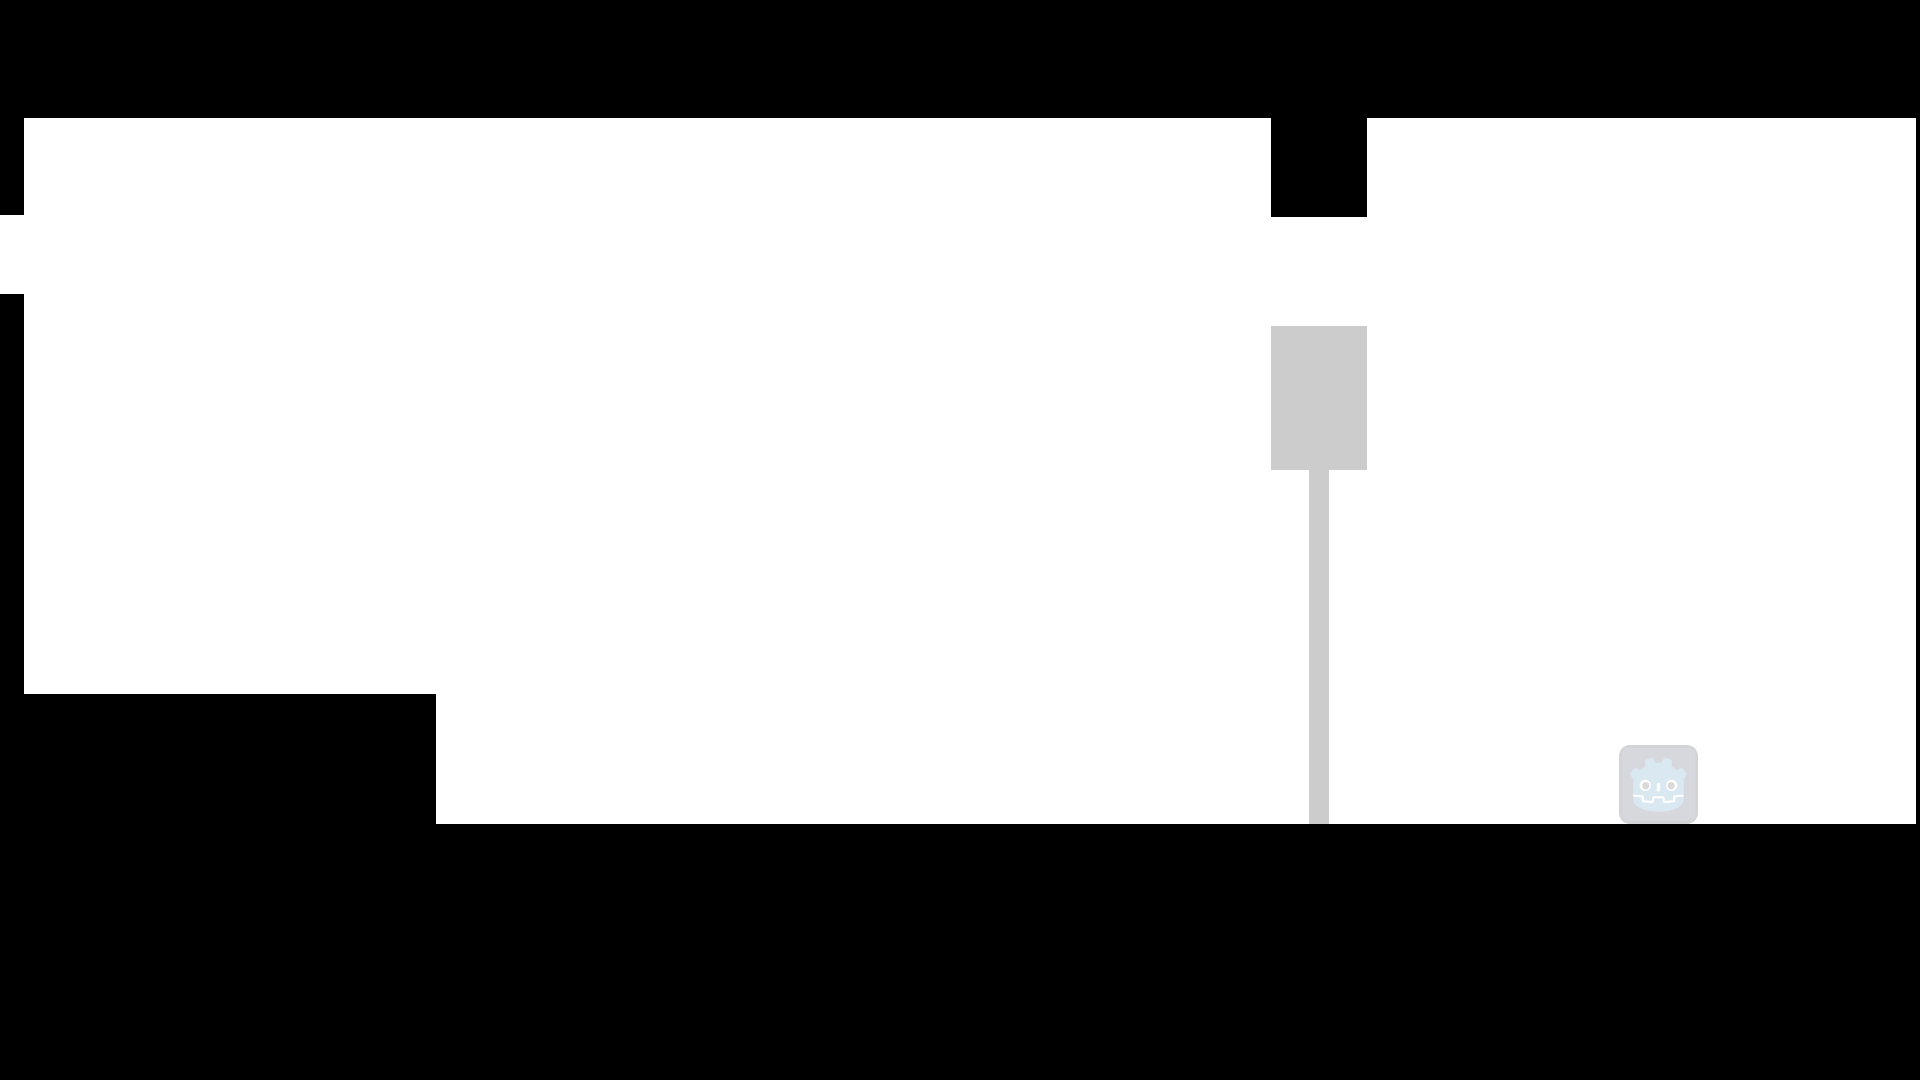
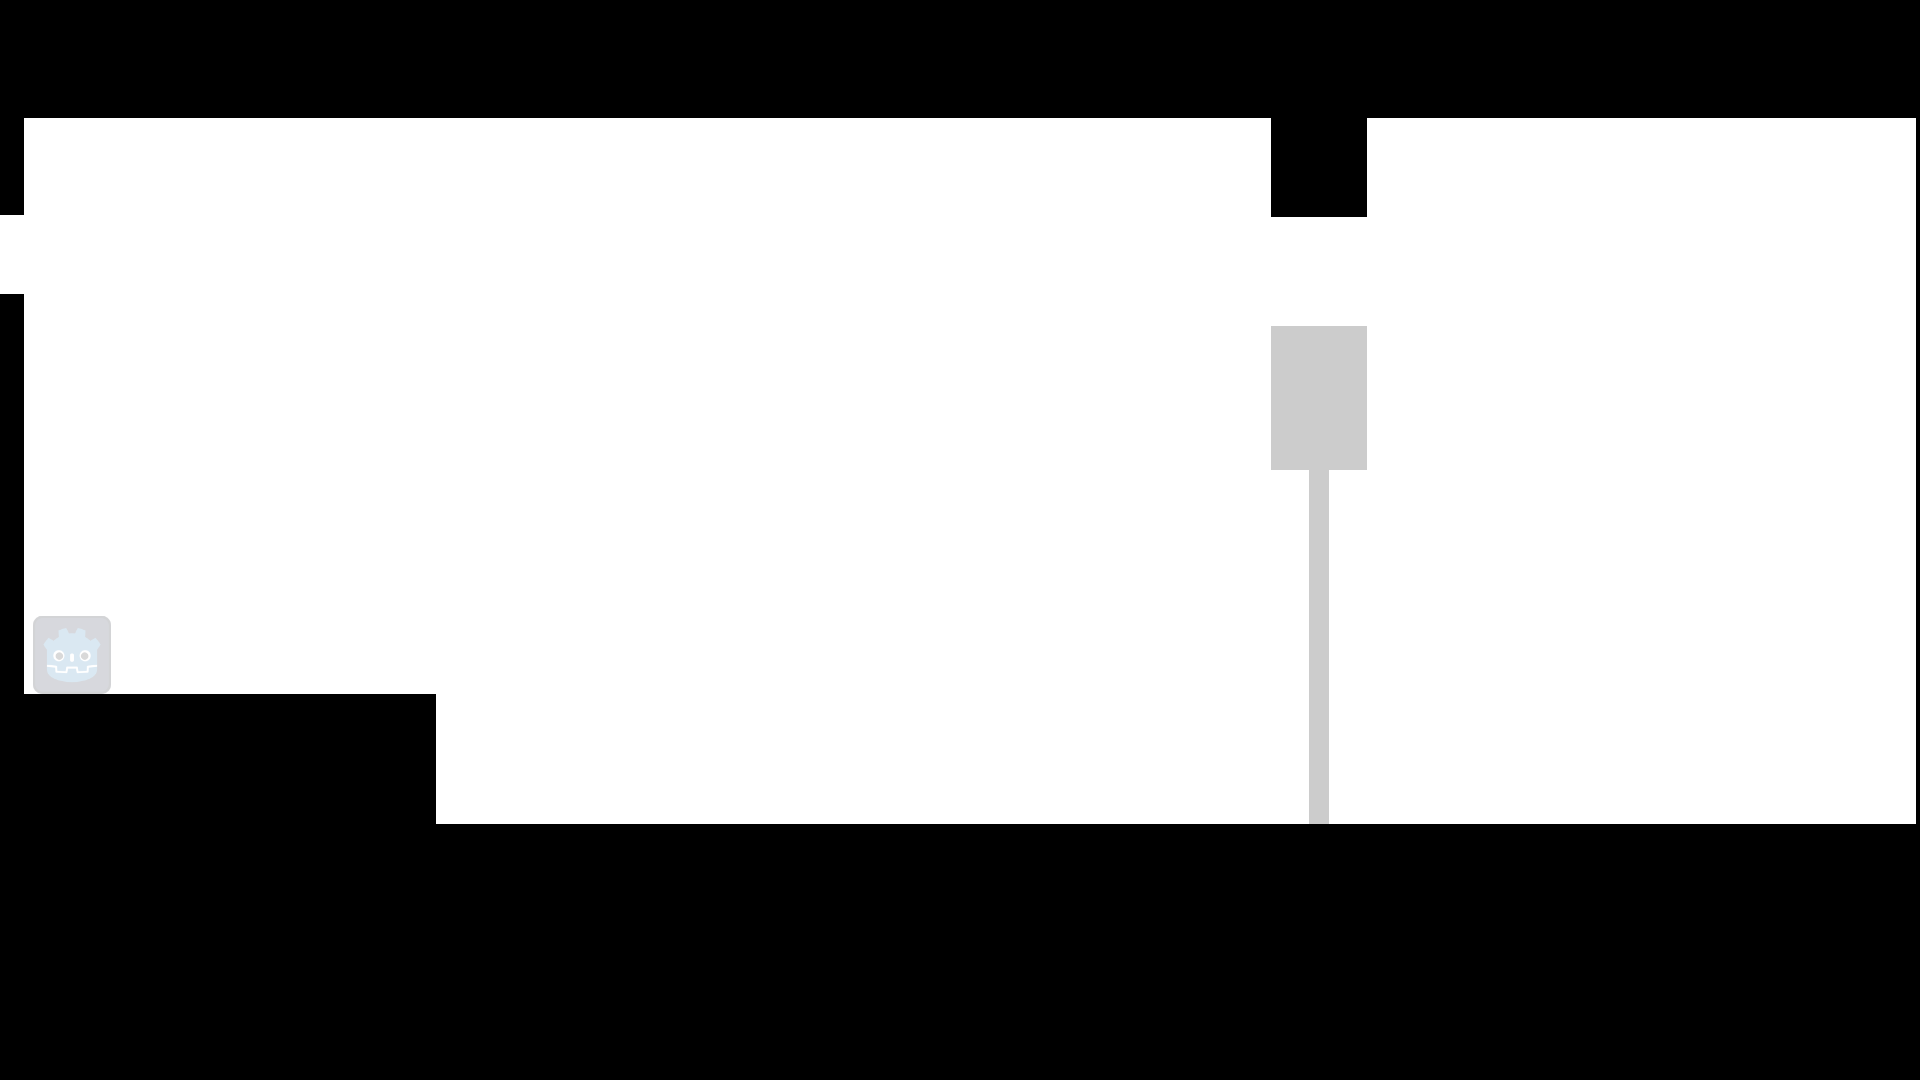
TCP v0 and relative paths

Changed region(s): [[0.8438, 0.6722, 0.9062, 0.7639], [0.0, 0.55, 0.0625, 0.6417]]

diff --git a/External Software/ShadowSocket.py b/External Software/ShadowSocket.py
@@ -1,0 +1,220 @@
+import cv2
+import numpy as np
+import threading
+import socket
+import json
+import os
+
+vertices = []
+request_pending = False
+
+# Threaded socket server to handle requests from Godot
+def socket_server():
+    global request_pending
+    with socket.socket(socket.AF_INET, socket.SOCK_STREAM) as s:
+        s.bind(('localhost', 65432))
+        s.listen()
+        connection, address = s.accept()
+        with connection:
+            while True:
+                data = connection.recv(1024).decode('utf-8')
+                if not data:
+                    break
+                if data == "GET_ARRAY":
+                    request_pending = True
+                    while request_pending: 
+                        pass
+
+                    packet = json.dumps(vertices)
+                    connection.sendall(packet.encode('utf-8'))
+
+
+cap = cv2.VideoCapture(1)
+cap.set(cv2.CAP_PROP_FRAME_WIDTH, 1920)
+cap.set(cv2.CAP_PROP_FRAME_HEIGHT, 1080)
+
+squaresX = 16
+squaresY = 9
+squareLength = 0.02
+markerLength = 0.015  
+
+all_object_points = []
+all_image_points = []
+
+WARP_W = 1920
+WARP_H = 1080
+
+bestInliers = 0
+bestH = None
+warpFound = False
+
+bg = None
+BG_ALPHA = 0.01
+
+MIN_AREA = 1500
+MIN_EXTENT = 0.30
+
+kernel_open = cv2.getStructuringElement(cv2.MORPH_ELLIPSE, (3, 3))
+kernel_close = cv2.getStructuringElement(cv2.MORPH_RECT, (11, 7))
+
+dictionary = cv2.aruco.getPredefinedDictionary(cv2.aruco.DICT_6X6_250)
+board = cv2.aruco.CharucoBoard((squaresX, squaresY), squareLength, markerLength, dictionary)
+detector_parameters = cv2.aruco.DetectorParameters()
+charuco_parameters = cv2.aruco.CharucoParameters()
+charuco_parameters.tryRefineMarkers = True
+charuco_detector = cv2.aruco.CharucoDetector(board, charuco_parameters, detector_parameters)
+
+imageSize = None
+
+while True:
+    ok, frame = cap.read()
+    if not ok:
+        break
+
+    gray = cv2.cvtColor(frame, cv2.COLOR_BGR2GRAY)
+    charucoCorners, charucoIds, markerCorners, markerIds = charuco_detector.detectBoard(gray)
+
+    if imageSize is None:
+        imageSize = (frame.shape[1], frame.shape[0])
+        board_image = board.generateImage(imageSize)
+        if board_image is not None:
+            cv2.namedWindow("Charuco Board", cv2.WINDOW_NORMAL)
+            cv2.setWindowProperty("Charuco Board", cv2.WND_PROP_FULLSCREEN, cv2.WINDOW_FULLSCREEN)
+            cv2.imshow("Charuco Board", board_image)
+
+    debug = gray.copy()
+    if markerIds is not None:
+        cv2.aruco.drawDetectedMarkers(debug, markerCorners, markerIds)
+    if charucoIds is not None:
+        cv2.aruco.drawDetectedCornersCharuco(debug, charucoCorners, charucoIds)
+
+    cv2.imshow("Calibration (SPACE to capture, ESC to finish)", debug)
+
+    key = cv2.waitKey(1) & 0xFF
+    if key == ord(' ') and charucoIds is not None and len(charucoIds) >= 12:
+        objPts, imgPts = board.matchImagePoints(charucoCorners, charucoIds)
+        all_object_points.append(objPts.astype(np.float32))
+        all_image_points.append(imgPts.astype(np.float32))
+
+    if key == 27:
+        break
+
+cv2.destroyAllWindows()
+
+ret, camMatrix, distCoeffs, rvecs, tvecs = cv2.calibrateCamera(
+    all_object_points, all_image_points, imageSize, None, None
+)
+
+threading.Thread(target=socket_server, daemon=True).start()
+
+script_dir = os.path.dirname(os.path.abspath(__file__))
+print(script_dir)
+image_path = os.path.join(script_dir, "Test Images", "GodotFrame.png")
+
+while True:
+    ok, frame = cap.read()
+    if not ok:
+        break
+
+    gray = cv2.cvtColor(frame, cv2.COLOR_BGR2GRAY)
+    charucoCorners, charucoIds, markerCorners, markerIds = charuco_detector.detectBoard(gray)
+
+    if charucoIds is not None and len(charucoIds) >= 12:
+        objPts, imgPts = board.matchImagePoints(charucoCorners, charucoIds)
+
+        obj2d = objPts[:, 0, :2]
+        img2d = imgPts[:, 0, :]
+
+        newcameramtx, _ = cv2.getOptimalNewCameraMatrix(
+            camMatrix, distCoeffs, imageSize, 1, imageSize
+        )
+
+        img2d_undist = cv2.undistortPoints(
+            img2d.reshape(-1, 1, 2), camMatrix, distCoeffs, P=newcameramtx
+        ).reshape(-1, 2)
+
+        boardW = squaresX * squareLength
+        boardH = squaresY * squareLength
+
+        px = WARP_W / boardW
+        py = WARP_H / boardH
+
+        src = img2d_undist.astype(np.float32)
+        dst = np.column_stack((obj2d[:, 0] * px, obj2d[:, 1] * py)).astype(np.float32)
+
+        H, inliers = cv2.findHomography(src, dst, cv2.RANSAC, 3.0)
+        if H is not None and inliers.sum() > bestInliers:
+            bestInliers = inliers.sum()
+            bestH = H
+            warpFound = True
+
+    if not warpFound:
+        cv2.imshow("Raw Camera", frame)
+        if cv2.waitKey(1) & 0xFF == 27:
+            break
+        continue
+
+    undist = cv2.undistort(frame, camMatrix, distCoeffs, None, newcameramtx)
+    warped = cv2.warpPerspective(undist, bestH, (WARP_W, WARP_H))
+
+    gray_w = cv2.cvtColor(warped, cv2.COLOR_BGR2GRAY)
+    gray_w = cv2.GaussianBlur(gray_w, (5, 5), 0)
+    gray_w = cv2.medianBlur(gray_w, 5)
+
+    gray_w = cv2.threshold(gray_w, 0, 255, cv2.THRESH_BINARY + cv2.THRESH_OTSU)[1]
+
+    # File path for background model
+    # TODO: Change this path to local path from absolute path
+    bg = cv2.cvtColor(cv2.imread(image_path), cv2.COLOR_BGR2GRAY).astype(np.float32)
+
+    bg_u8 = cv2.convertScaleAbs(bg)
+
+    diff = cv2.absdiff(gray_w, bg_u8)
+
+    mean = np.mean(diff)
+    std = np.std(diff)
+    thresh_val = int(np.clip(mean + 0.8 * std, 12, 60))
+
+    _, mask = cv2.threshold(diff, 200, 255, cv2.THRESH_BINARY)
+
+    mask = cv2.morphologyEx(mask, cv2.MORPH_OPEN, kernel_open)
+    mask = cv2.morphologyEx(mask, cv2.MORPH_CLOSE, kernel_close)
+    mask = cv2.morphologyEx(mask, cv2.MORPH_OPEN, kernel_open)
+
+    cv2.imshow("Shadow Mask Pre-Contour", mask)
+
+    contours, _ = cv2.findContours(mask, cv2.RETR_EXTERNAL, cv2.CHAIN_APPROX_SIMPLE)
+
+    best_cnt = None
+    best_score = 0
+
+    for cnt in contours:
+        area = cv2.contourArea(cnt)
+        if area < MIN_AREA:
+            continue
+
+        x, y, w, h = cv2.boundingRect(cnt)
+        extent = area / float(w * h + 1e-5)
+        score = area * extent
+
+        if score > best_score:
+            best_score = score
+            best_cnt = cnt
+
+    
+    if best_cnt is not None:
+        approx = cv2.approxPolyDP(best_cnt, 4, True)
+        if request_pending:
+            request_pending = False
+
+    if best_cnt is not None:
+        x, y, w, h = cv2.boundingRect(best_cnt)
+        cx = int(x + w / 2)
+        cy = int(y + h / 2)
+        cv2.circle(warped, (cx, cy), 10, (0, 255, 0), -1)
+
+    if cv2.waitKey(1) & 0xFF == 27:
+        break
+
+cap.release()
+cv2.destroyAllWindows()

diff --git a/External Software/test.py b/External Software/test.py
@@ -1,9 +1,21 @@
 import socket
 import struct
+import os
 import cv2
 import numpy as np
 
-HOST = '127.0.0.1'
+script_dir = os.path.dirname(os.path.abspath(__file__))
+print(script_dir)
+image_path = os.path.join(script_dir, "Test Images", "GodotFrame.png")
+image = cv2.imread(image_path, cv2.IMREAD_UNCHANGED)
+
+if image is None:
+    print(f"Failed to load image at {image_path}")
+else:
+    cv2.imshow("Loaded Image", image)
+    cv2.waitKey(0)
+
+"""HOST = '127.0.0.1'
 PORT = 5000
 
 server = socket.socket(socket.AF_INET, socket.SOCK_STREAM)
@@ -47,4 +59,4 @@ try:
 finally:
     conn.close()
     server.close()
-    cv2.destroyAllWindows()
+    cv2.destroyAllWindows()"""
